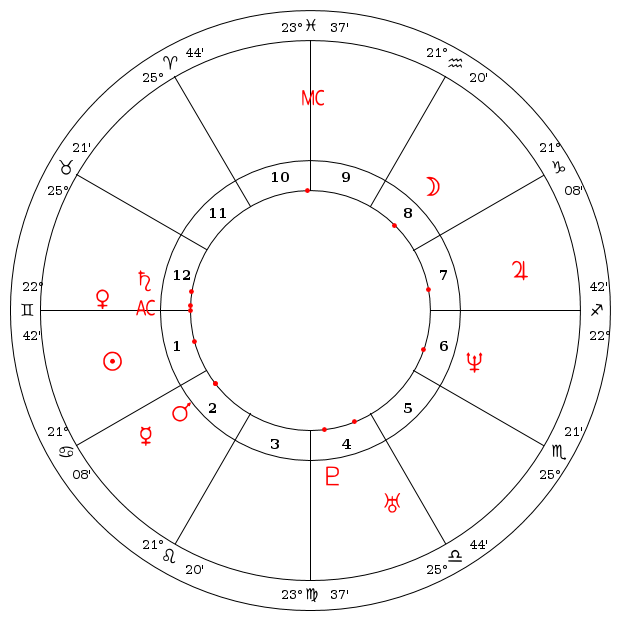
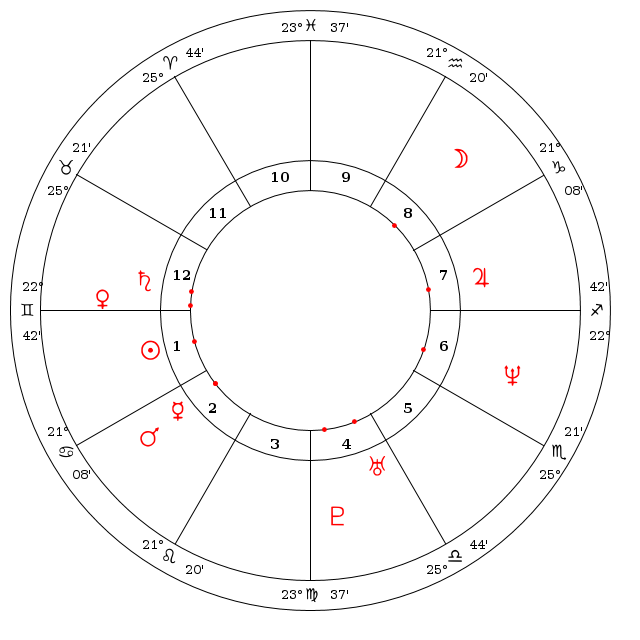
Simplificando

diff --git a/star-model/src/main/java/br/itarocha/star/DecoradorMapa.java b/star-model/src/main/java/br/itarocha/star/DecoradorMapa.java
@@ -22,8 +22,6 @@ public class DecoradorMapa {
 		retorno += ",\n";
 		retorno += displayPlanetasNosSignos();
 		retorno += ",\n";
-		retorno += displayPlanetasNasCasas();
-		retorno += ",\n";
 		retorno += displayCuspides();
 		retorno += ",\n";
 		retorno += displayAspectos();
@@ -67,11 +65,11 @@ public class DecoradorMapa {
 	private String displayPlanetasNosSignos(){
 		String retorno = "";
 		
-		//System.out.println("\nPLANETAS");
 		for(PlanetaPosicao pp : mapa.getPosicoesPlanetas()){
-			retorno += String.format("{\"planeta\":\"%s\", \"signo\":\"%s\", \"grau\": \"%s\", \"gg\":\"%s\", \"mm\":\"%s\", \"ss\":\"%s\"},\n",
+			retorno += String.format("{\"planeta\":\"%s\", \"signo\":\"%s\", \"casa\": \"%02d\",  \"grau\": \"%s\", \"gg\":\"%s\", \"mm\":\"%s\", \"ss\":\"%s\"},\n",
 					pp.getEnumPlaneta().getSigla(), 	// Planeta
 					pp.getEnumSigno().getSigla(),		// Signo
+					pp.getCasa(),
 					pp.getGrau(),
 					pp.getGnc(),			// gg 
 					pp.getM(),				// mm 
@@ -81,25 +79,6 @@ public class DecoradorMapa {
 		retorno =  "\"planetas_signos\":[\n"+
 					retorno.substring(0,retorno.length()-2)+
 					"\n]";
-		return retorno;
-	}
-
-	private String displayPlanetasNasCasas(){
-		String retorno = "";
-		
-		for(PlanetaPosicao pp : mapa.getPosicoesPlanetas()){
-			retorno += String.format("{\"planeta\":\"%s\", \"casa\":\"%02d\", \"grau\":\"%s\", \"gg\":\"%s\", \"mm\":\"%s\", \"ss\":\"%s\"},\n",
-					pp.getEnumPlaneta().getSigla(), 	// Planeta
-					pp.getCasa(),		// Casa
-					pp.getGrau(),
-					pp.getGnc(),			// gg 
-					pp.getM(),				// mm 
-					pp.getS()
-					);
-		}
-		retorno =  "\"planetas_casas\":[\n"+
-				  retorno.substring(0,retorno.length()-2)+
-				  "\n]";
 		return retorno;
 	}
 

diff --git a/star-model/src/main/java/br/itarocha/star/ChartPainter.java b/star-model/src/main/java/br/itarocha/star/ChartPainter.java
@@ -72,7 +72,6 @@ public class ChartPainter {
 		    String dest = String.format("%s/mapa.png",url);		    
 		    ImageIO.write(bi, "png",  new File(dest));
 
-		    System.out.println("Pronto!");
 		  } catch (IOException ie) {
 		    ie.printStackTrace();
 		  }
@@ -103,7 +102,6 @@ public class ChartPainter {
 		    ImageIO.write(bi, "png",  new File(dest));
 
 		    //ImageIO.write(bi, "PNG",  file);
-		    System.out.println("Pronto!");
 		  } catch (IOException ie) {
 		    ie.printStackTrace();
 		  }
@@ -258,6 +256,8 @@ public class ChartPainter {
       List<ItemDesenhoMapa> lista = new ArrayList<ItemDesenhoMapa>();
       for(PlanetaPosicao pp : mapa.getPosicoesPlanetas()){
 		  if("nor".equalsIgnoreCase(pp.getEnumPlaneta().getSigla())) continue;
+		  if("asc".equalsIgnoreCase(pp.getEnumPlaneta().getSigla())) continue;
+		  if("mce".equalsIgnoreCase(pp.getEnumPlaneta().getSigla())) continue;
 
 		  ItemDesenhoMapa item = new ItemDesenhoMapa(pp.getEnumPlaneta().getLetra(), Integer.parseInt(pp.getG()), Integer.parseInt(pp.getGnc()), Integer.parseInt(pp.getM()));		  
 		  lista.add(item);
@@ -265,7 +265,6 @@ public class ChartPainter {
 	  }
       Collections.sort(lista);
       for ( ItemDesenhoMapa item : lista ) {
-    	  System.out.println(item);
     	  Integer grau = item.getGrau360()-mapa.getGrausDefasagemAscendente();
     	  
     	  alternador = !alternador;

diff --git a/star-model/src/main/java/br/itarocha/star/MapaBuilder.java b/star-model/src/main/java/br/itarocha/star/MapaBuilder.java
@@ -218,6 +218,7 @@ public class MapaBuilder {
 		
 		enumPlaneta = EnumPlaneta.getByCodigo(10);
 		pp = new PlanetaPosicao(enumPlaneta, casas[1]);
+		pp.setCasaDouble(1);
 		mapa.getPosicoesPlanetas().add(pp);
 
 		aspectos_planetas[11] = EnumPlaneta.getByCodigo(11).getCodigo();
@@ -225,6 +226,7 @@ public class MapaBuilder {
 
 		enumPlaneta = EnumPlaneta.getByCodigo(11);
 		pp = new PlanetaPosicao(enumPlaneta, casas[10]);
+		pp.setCasaDouble(10);
 		mapa.getPosicoesPlanetas().add(pp);
 	}
 	
